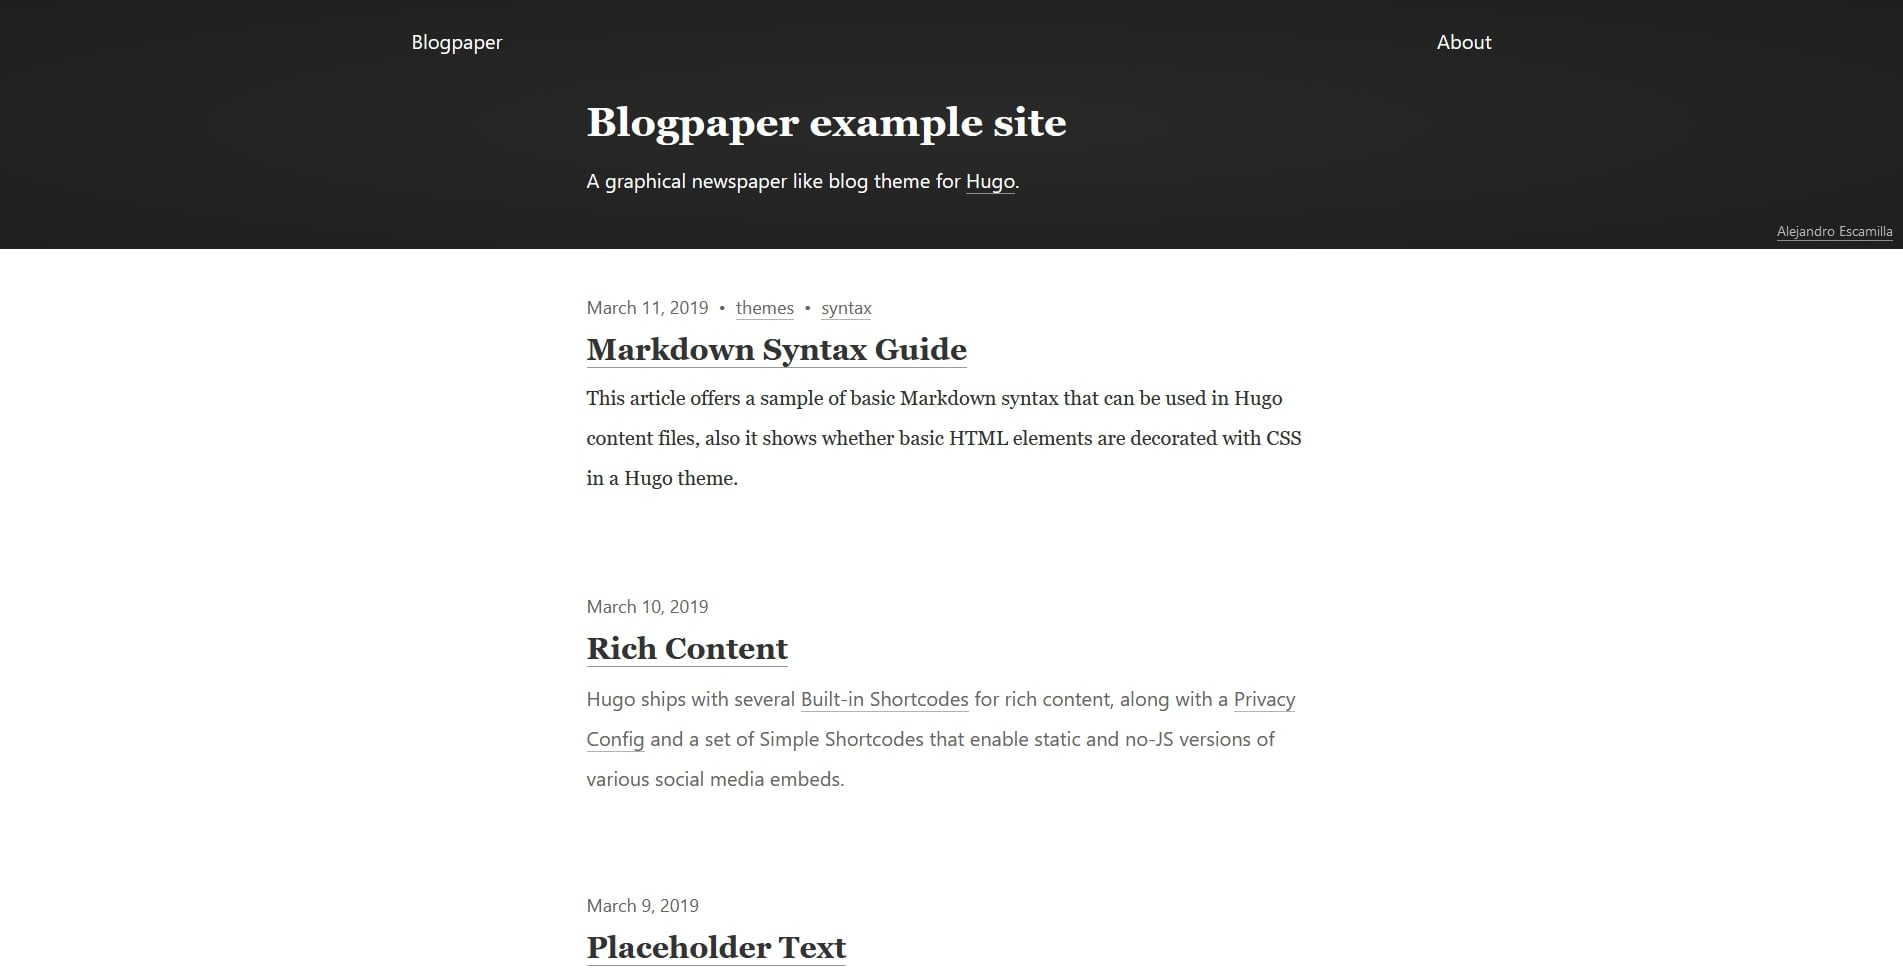
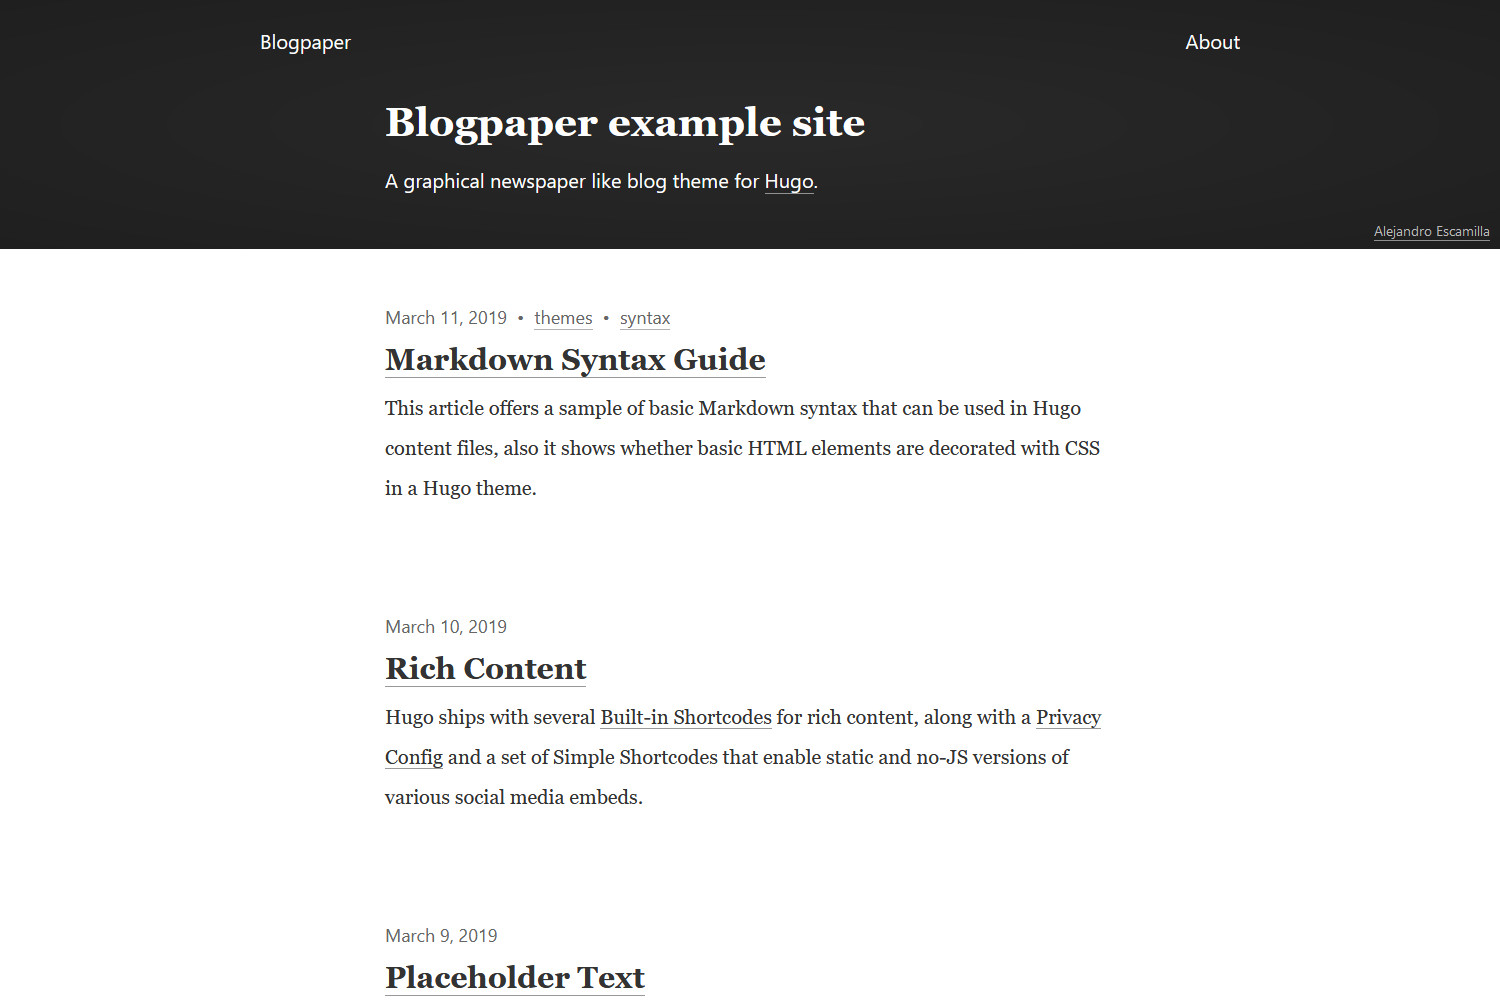
:pencil: Update images

diff --git a/README.md b/README.md
@@ -4,7 +4,7 @@
 
 [![Quality Gate Status](https://sonarcloud.io/api/project_badges/measure?project=NormandErwan_blogpaper&metric=alert_status)](https://sonarcloud.io/dashboard?id=NormandErwan_blogpaper)
 
-![Example of a homepage](images/screenshot.jpg)
+![Example of a homepage](images/screenshot.png)
 
 ![Example of a post page](images/post-page.jpg)
 
